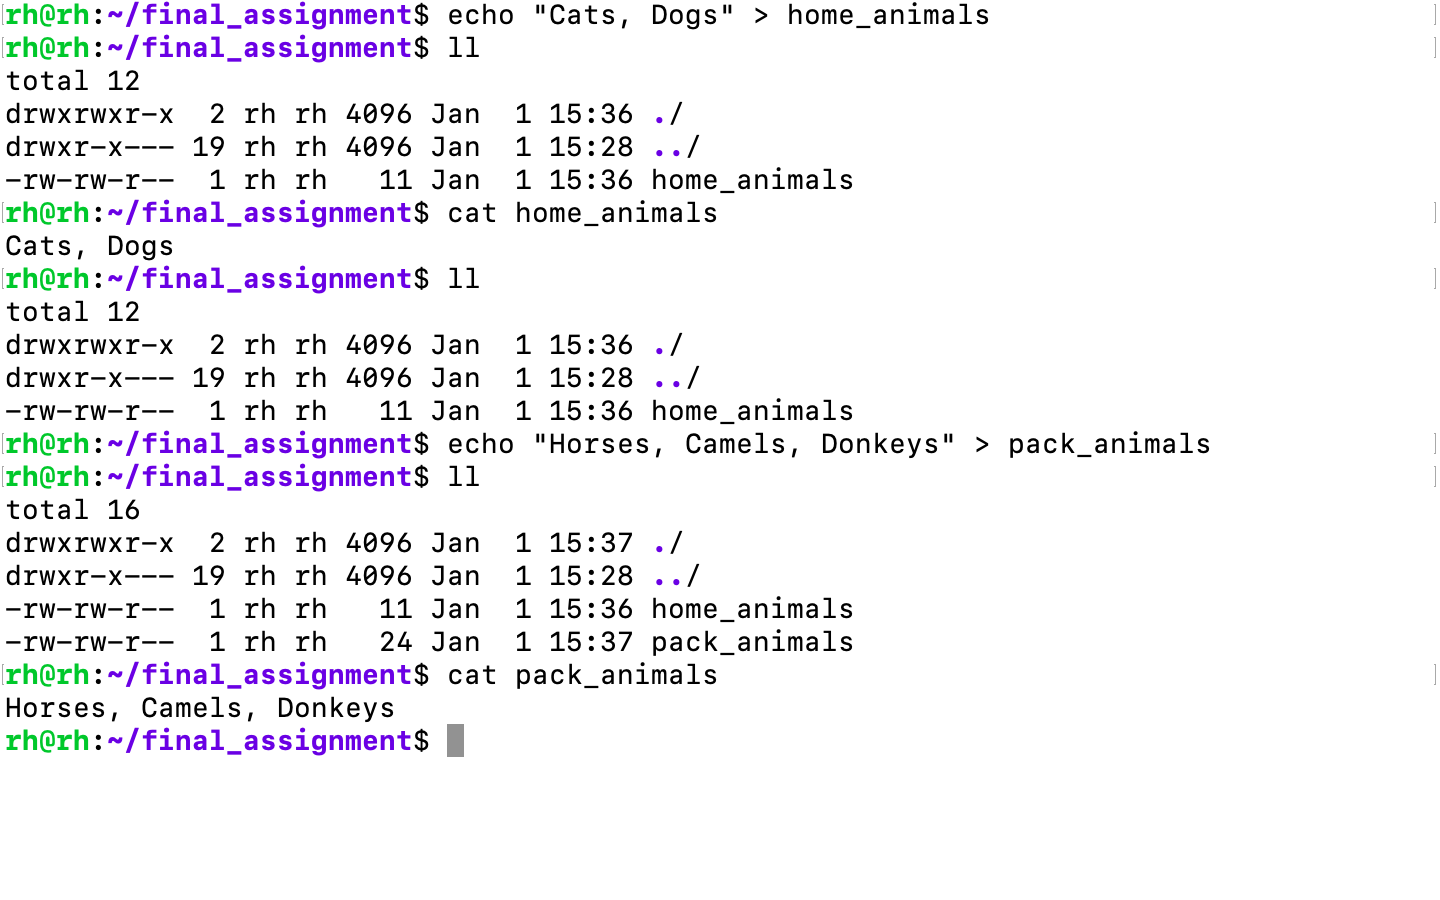
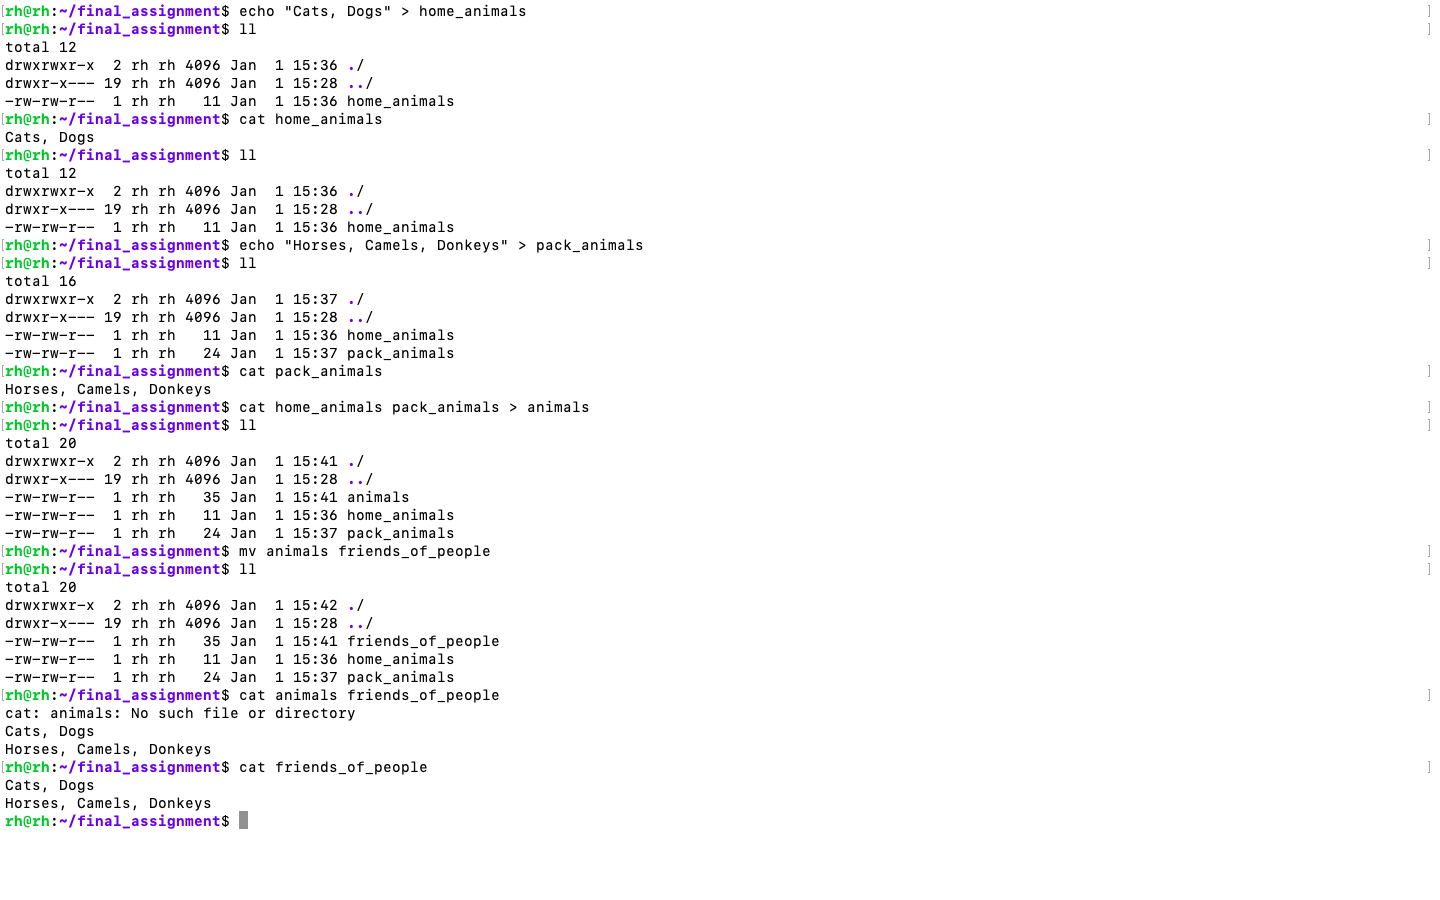
task2-4

Changed region(s): [[0.0, 0.0, 0.8438, 0.9333]]

diff --git a/README.md b/README.md
@@ -6,9 +6,13 @@
 Переименовать файл, дав ему новое имя (Друзья человека).
 ![task1](img/task1.png)
 2. Создать директорию, переместить файл туда.
+![task2](img/task2.png)
 3. Подключить дополнительный репозиторий MySQL. Установить любой пакет
 из этого репозитория.
+![task3](img/task3.png)
+![task3(2)](img/task3(2).png)
 4. Установить и удалить deb-пакет с помощью dpkg.
+![task4](img/task4.png)
 5. Выложить историю команд в терминале ubuntu
 6. Нарисовать диаграмму, в которой есть класс родительский класс, домашние
 животные и вьючные животные, в составы которых в случае домашних
